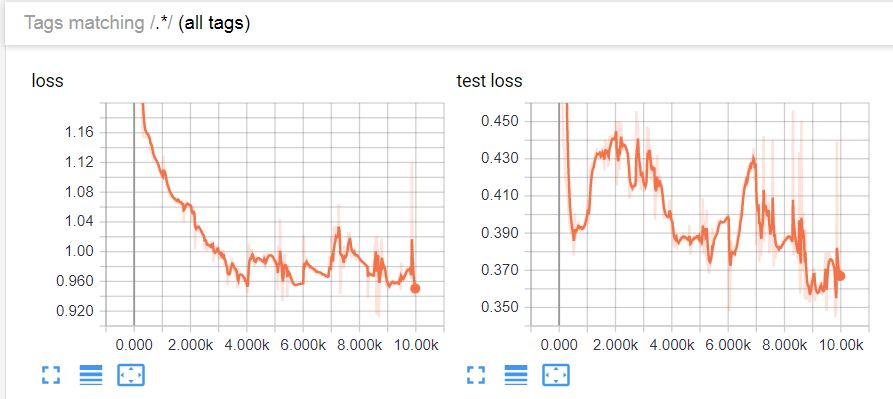
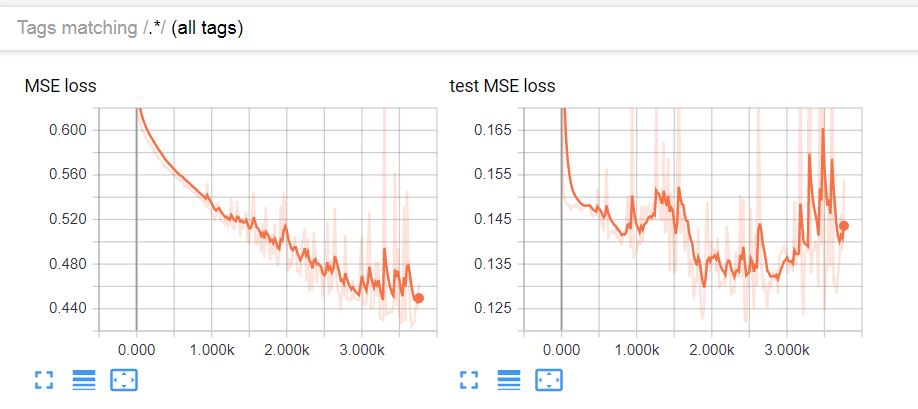
Update train.py and loss curve figuer

Changed region(s): [[0.0302, 0.1805, 0.9675, 0.9925], [0.0, 0.0301, 1.0, 0.1203], [0.4838, 0.9023, 0.6652, 0.9925]]

diff --git a/train.py b/train.py
@@ -66,7 +66,7 @@ def train_agent():
     # Training Parameters
     learning_rate = 0.0001
     training_steps = 10000
-    batch_size = 32
+    batch_size = 128
     display_step = 20
 
     # Network Parameters
@@ -96,22 +96,27 @@ def train_agent():
         x = tf.unstack(x, timesteps, 1)
 
         # Define a lstm cell with tensorflow
-        lstm_cell = rnn.BasicLSTMCell(num_hidden, forget_bias=1.0)
-
+        # lstm_cell = rnn.BasicLSTMCell(num_hidden, forget_bias=1.0)
+        layer1 = rnn.BasicLSTMCell(num_hidden, forget_bias=1.0)
+        layer2 = rnn.BasicLSTMCell(num_hidden, forget_bias=1.0)
+        layer3 = rnn.BasicLSTMCell(num_hidden, forget_bias=1.0)
+        cells = [layer1, layer2, layer3]
+        multirnn = rnn.MultiRNNCell(cells)
         # Get lstm cell output
-        outputs, states = rnn.static_rnn(lstm_cell, x, dtype=tf.float32)
+        # outputs, states = rnn.static_rnn(lstm_cell, x, dtype=tf.float32)
+        outputs, states = rnn.static_rnn(multirnn, x, dtype=tf.float32)
 
         # Linear activation, using rnn inner loop last output
         return tf.matmul(outputs[-1], weights['out']) + biases['out']
 
     prediction = RNN(X, weights, biases)
-
+    print "number of parameters", count_all_parameters(None)
     # Define loss and optimizer
     loss_op = tf.reduce_mean(tf.losses.mean_squared_error(predictions=prediction, labels=Y))  # MSE
     # loss_op = tf.reduce_mean(tf.div(tf.losses.absolute_difference(labels=Y, predictions=prediction, reduction=tf.losses.Reduction.NONE), Y))    # relative error
     # loss_op = tf.reduce_mean(tf.losses.absolute_difference(labels=Y, predictions=prediction))
     # abs_loss = tf.losses.absolute_difference(labels=Y, predictions=prediction, reduction=tf.losses.Reduction.NONE)
-    # abs_div = tf.div(tf.losses.absolute_difference(labels=Y, predictions=prediction, reduction=tf.losses.Reduction.NONE), Y)
+    # abs_div = tf.reduce_mean(tf.div(tf.losses.absolute_difference(labels=Y, predictions=prediction, reduction=tf.losses.Reduction.NONE), Y))
     optimizer = tf.train.GradientDescentOptimizer(learning_rate=learning_rate)
     train_op = optimizer.minimize(loss_op)
 
@@ -163,15 +168,28 @@ def train_agent():
                     test_label = np.array(y_test).reshape((-1, 1))
                     test_error = sess.run(loss_op, feed_dict={X: test_data, Y: test_label})
                     print "Testing MSE Error:", test_error
-                    loss_summary = tf.Summary(value=[tf.Summary.Value(tag="loss", simple_value=loss)])
+
+                    loss_summary = tf.Summary(value=[tf.Summary.Value(tag="MSE loss", simple_value=loss)])
                     tf_writer.add_summary(loss_summary, step)
-                    test_summary = tf.Summary(value=[tf.Summary.Value(tag="test loss", simple_value=test_error)])
+                    test_summary = tf.Summary(value=[tf.Summary.Value(tag="test MSE loss", simple_value=test_error)])
                     tf_writer.add_summary(test_summary, step)
+
                     tf_writer.flush()
                     # return
 
 
-
+def count_all_parameters(scope):
+    total_parameters = 0
+    for variable in tf.get_collection(tf.GraphKeys.TRAINABLE_VARIABLES, scope=scope):
+        # shape is an array of tf.Dimension
+        shape = variable.get_shape()
+        # print variable.name, variable.value
+        variable_parameters = 1
+        for dim in shape:
+            variable_parameters *= dim.value
+        # print "varable in each layer {0}".format(variable_parameters)
+        total_parameters += variable_parameters
+    return total_parameters
 
 if __name__ == '__main__':
     os.system("rm ./events.*")
